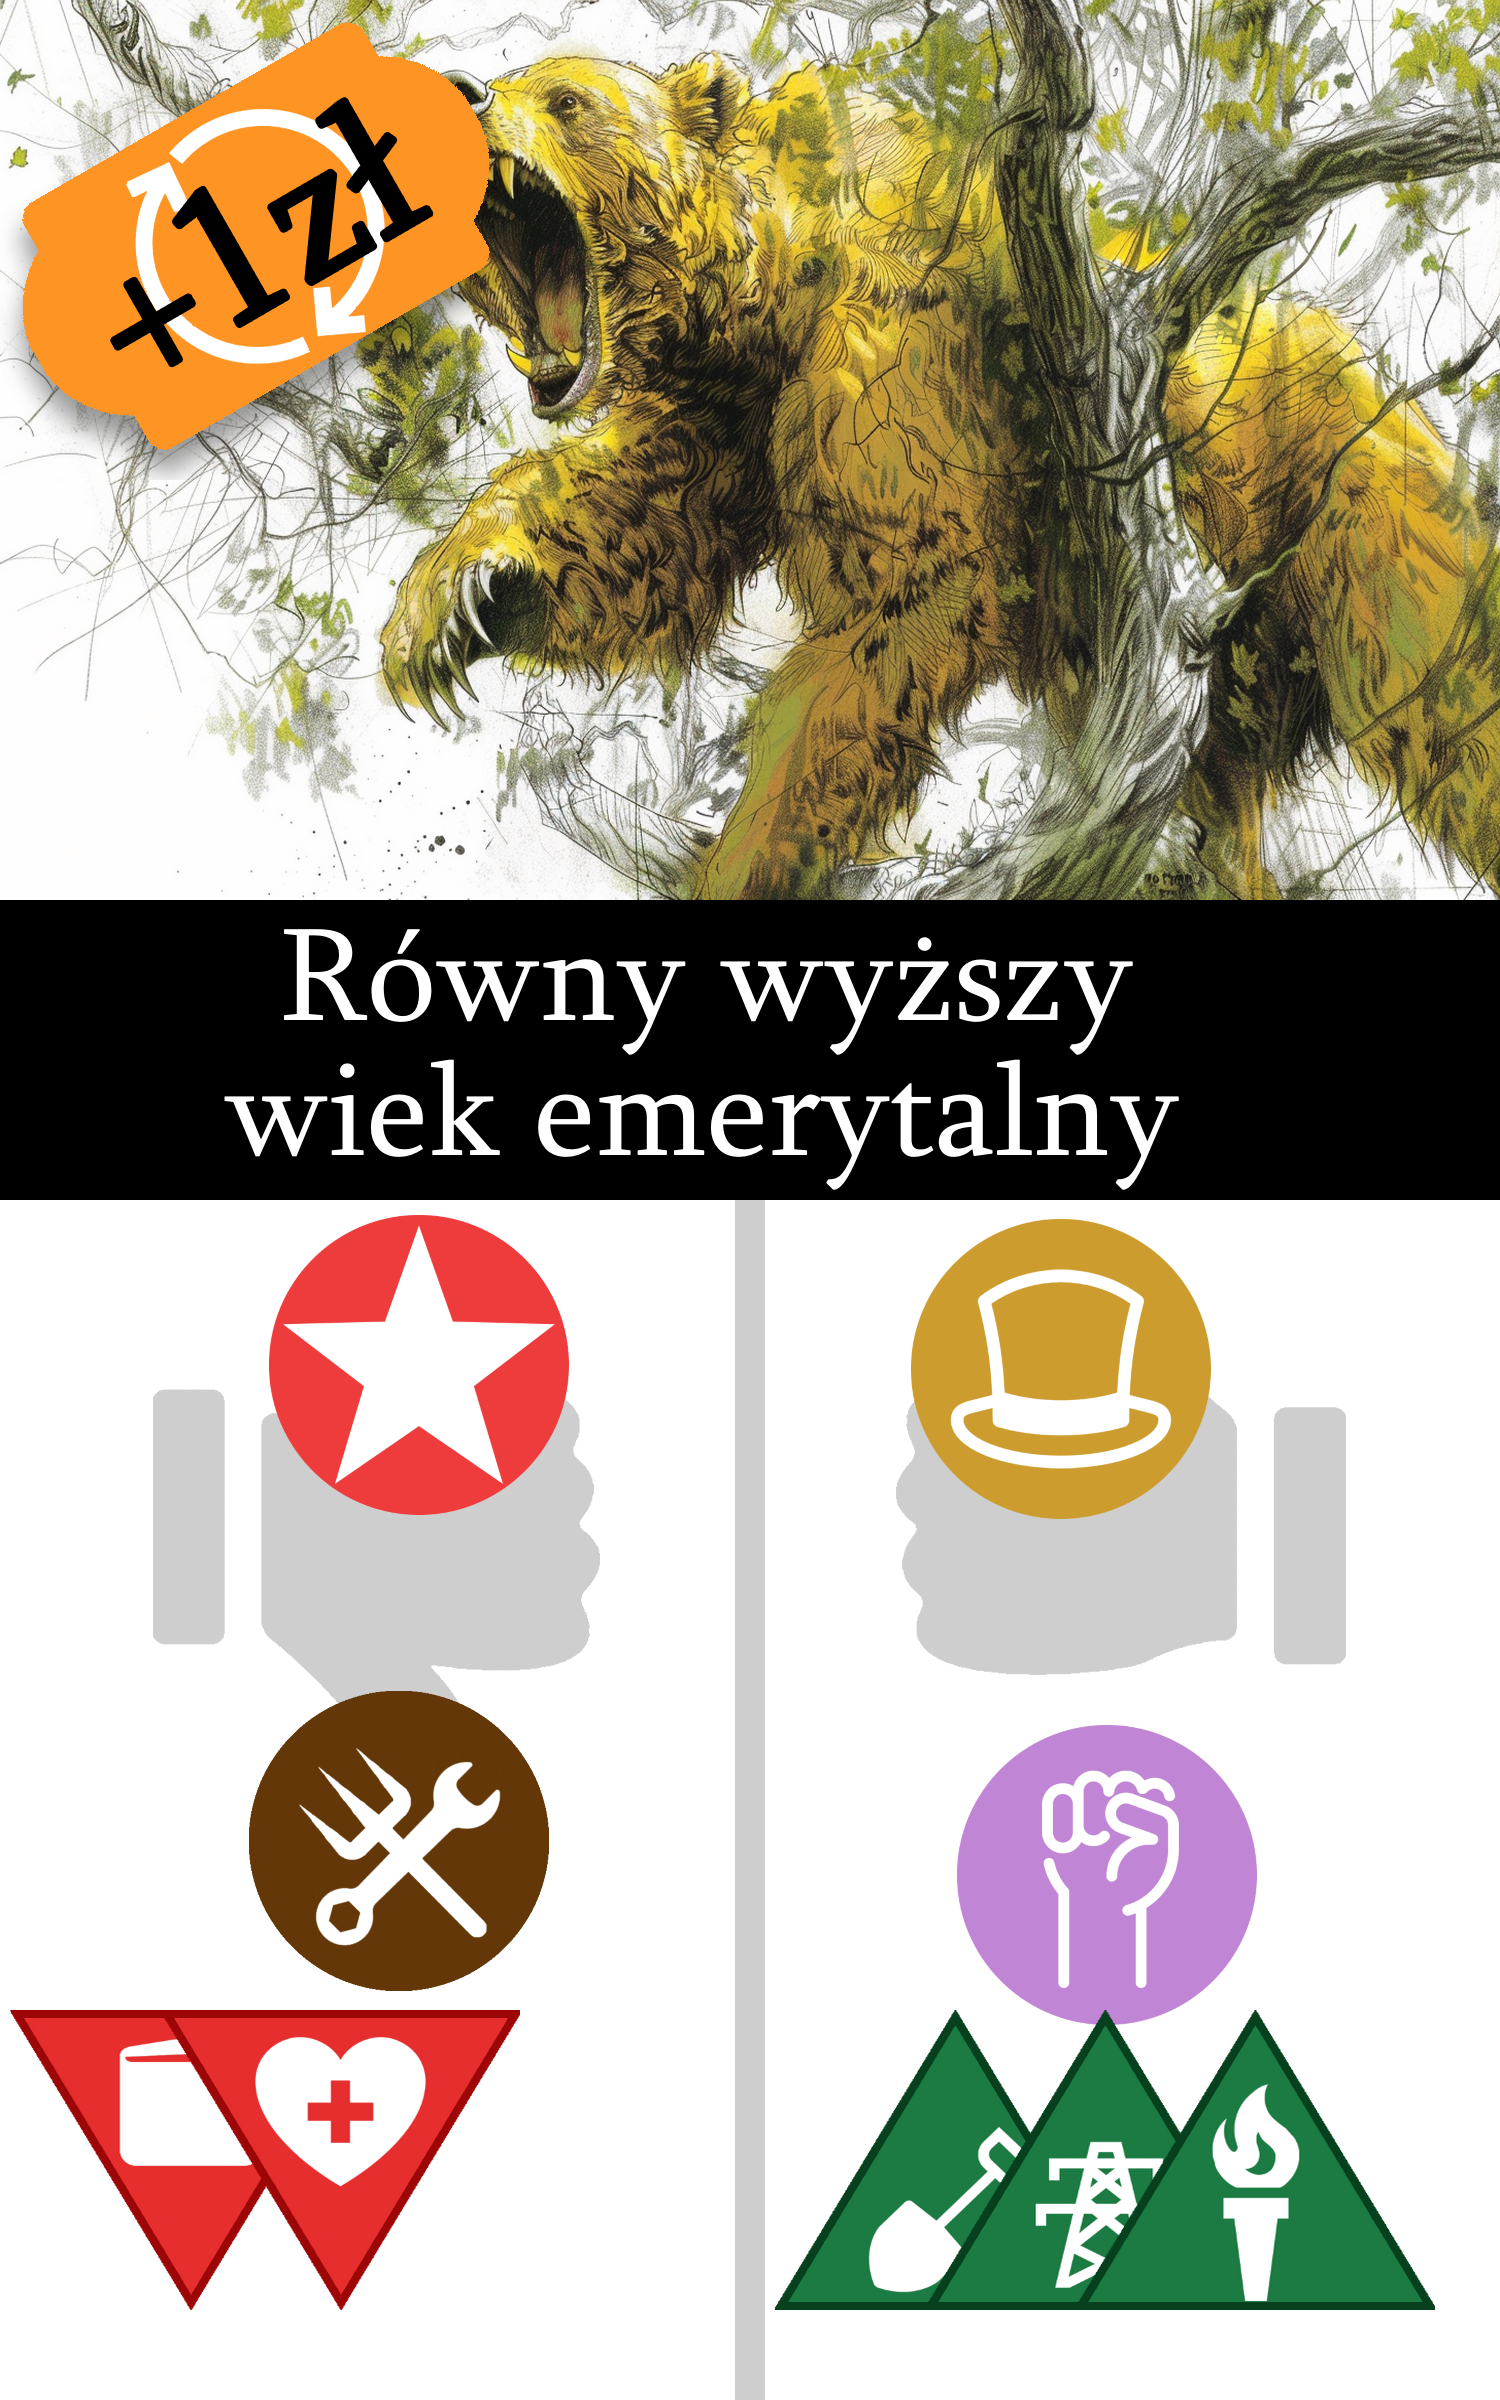
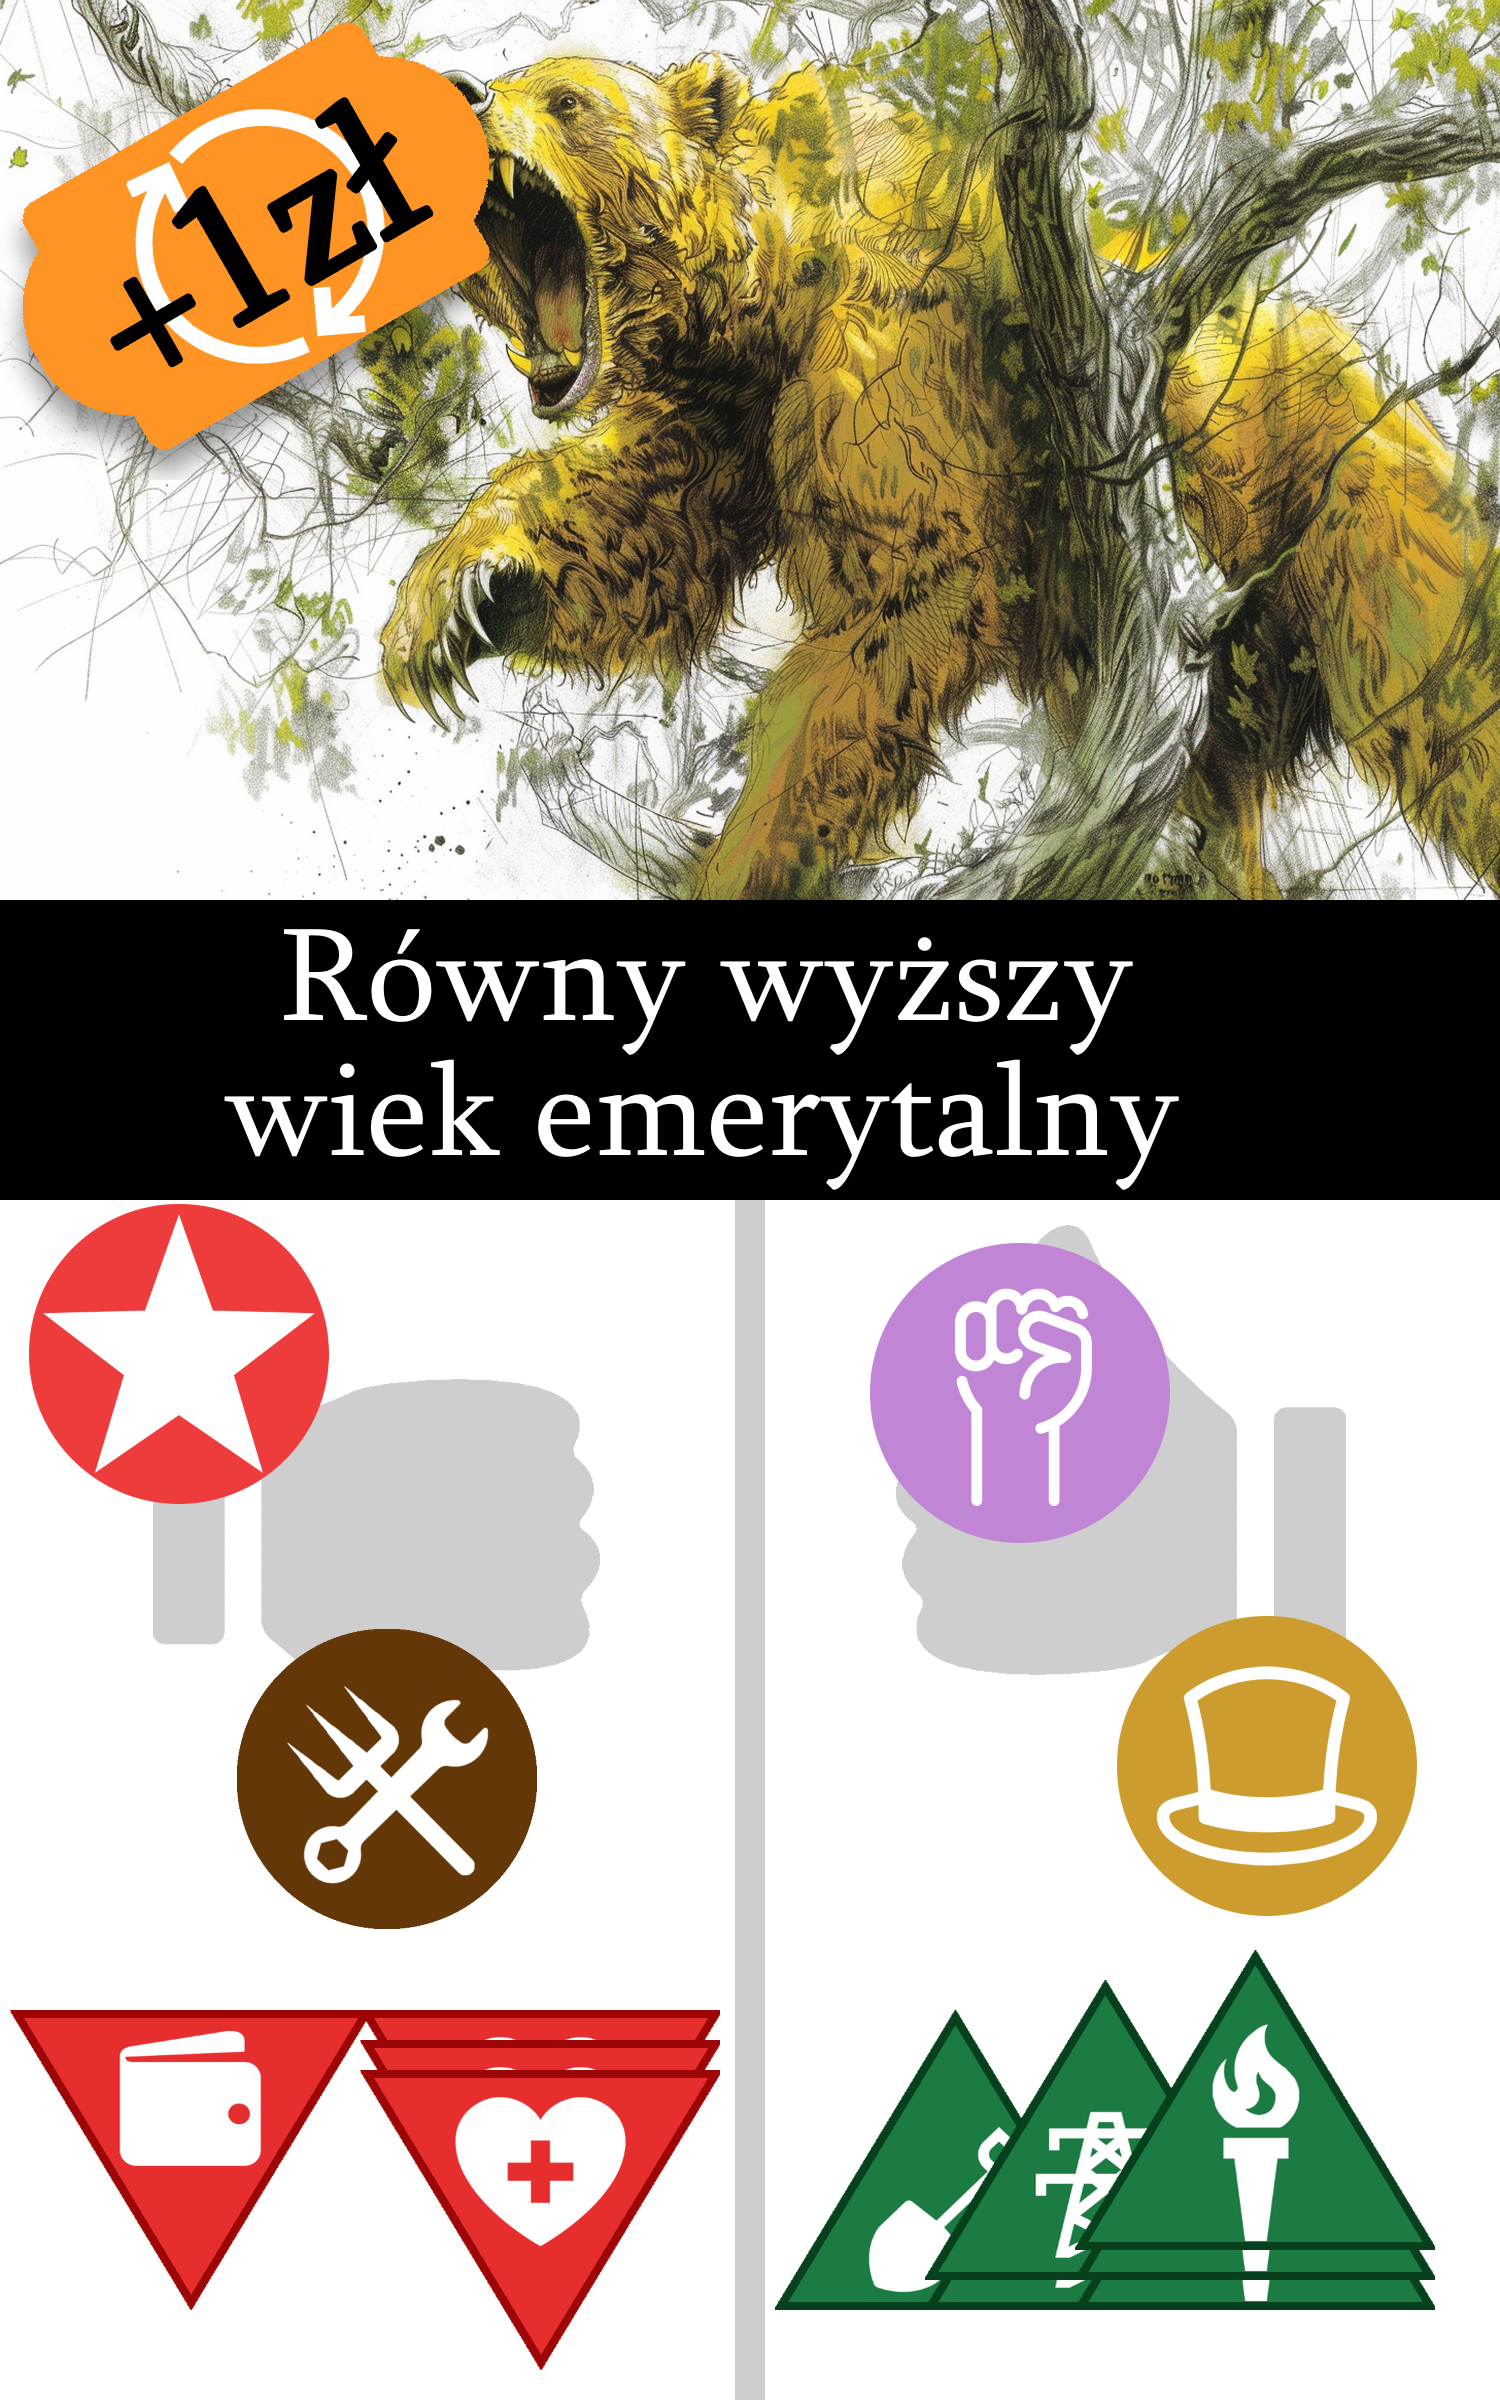
Done everything is great now

Changed region(s): [[0.0, 0.5, 0.4907, 1.0], [0.6133, 0.6562, 0.9507, 0.9688], [0.5827, 0.5, 0.828, 0.6562]]

diff --git a/main.go b/main.go
@@ -73,21 +73,30 @@ var (
 		"assets/wsk/InflacjaPlus.png",
 	}
 )
+var (
+	minimumStampDistance = 420
+)
 
 func main() {
+	if len(os.Args) == 2 {
+		if os.Args[1] == "-b" {
+			replaceSubstringInSlice(grupyImagePaths, "grupy", "boldgrupy")
+			replaceSubstringInSlice(wskaznikiImagePaths, "wsk", "boldwsk")
+		}
+	}
 	//Initialize a card
 	card := Card{
-		ArtPath:  "assets/misiu.png",
-		Title:    "Równy wyższy wiek emerytalny",
-		Opinions: [10]Opinion{0, 1, -1, 1, -1, 0, 0, 0, 0, 0},
-		Effects:  [7]int{-1, 1, 1, 1, 0, -1, 0},
+		ArtPath:  "assets/woda.png",
+		Title:    "Ujebanie się wódką",
+		Opinions: [10]Opinion{1, -1, 1, 1, 1, 1, -1, -1, 0, 0},
+		Effects:  [7]int{0, 0, 1, 3, -1, -3, 1},
 		Cost: Cost{
-			Value:       1,
+			Value:       2,
 			AddToBudget: true,
 		},
 	}
 
-	err := drawCard(card, "rawr")
+	err := drawCard(card, "wodka")
 	if err != nil {
 		log.Fatal(err)
 	}
@@ -110,7 +119,7 @@ func drawCard(card Card, filename string) error {
 	backgroundImage = addStamps(backgroundImage, card.Opinions[:])
 
 	backgroundImage = addEffects(backgroundImage, card.Effects[:])
-	if card.Cost.Value > 0 {
+	if card.Cost.Value != 0 {
 		backgroundImage = addCost(backgroundImage, card.Cost)
 	}
 
@@ -251,7 +260,7 @@ func drawStampAgainst(backgroundImage image.Image, stamp_id int, placedPositions
 func isOverlap(position image.Point, placedPositions []image.Point) bool {
 	for _, p := range placedPositions {
 		dist := math.Sqrt(math.Pow(float64(position.X)-float64(p.X), 2) + math.Pow(float64(position.Y)-float64(p.Y), 2))
-		if dist <= 420 {
+		if dist <= float64(minimumStampDistance) {
 			return true
 		}
 	}
@@ -263,13 +272,25 @@ func addEffects(backgroundImage image.Image, effects []int) *image.RGBA {
 	draw.Draw(resultImage, backgroundImage.Bounds(), backgroundImage, image.Point{}, draw.Src)
 	goodOffset := 0
 	badOffset := 0
+
+	goodCount := 0
+	badCount := 0
+
+	for _, val := range effects {
+		if val > 0 {
+			goodCount++
+		} else if val < 0 {
+			badCount++
+		}
+	}
+
 	for idx, val := range effects {
 		if val != 0 {
 			if val > 0 {
-				resultImage = drawGoodEffect(resultImage, val, idx*2+1, goodOffset)
+				resultImage = drawGoodEffect(resultImage, val, idx*2+1, goodOffset, goodCount)
 				goodOffset++
 			} else { // val < 0
-				resultImage = drawBadEffect(resultImage, val, idx*2, badOffset)
+				resultImage = drawBadEffect(resultImage, val, idx*2, badOffset, badCount)
 				badOffset++
 			}
 		}
@@ -277,7 +298,7 @@ func addEffects(backgroundImage image.Image, effects []int) *image.RGBA {
 	return resultImage
 }
 
-func drawGoodEffect(backgroundImage image.Image, val int, effect_id, offset int) *image.RGBA {
+func drawGoodEffect(backgroundImage image.Image, val int, effect_id, offset, goodCount int) *image.RGBA {
 	resultImage := image.NewRGBA(backgroundImage.Bounds())
 	draw.Draw(resultImage, backgroundImage.Bounds(), backgroundImage, image.Point{}, draw.Src)
 	effectFile, err := os.Open(wskaznikiImagePaths[effect_id])
@@ -290,28 +311,28 @@ func drawGoodEffect(backgroundImage image.Image, val int, effect_id, offset int)
 	}
 	effectImage = resize.Resize(360, 300, effectImage, resize.Lanczos3)
 	x := 775 + offset*150
-	var y int
+	if goodCount == 2 {
+		x = 775 + offset*350
+	}
+	y := 2010
 	var effectPosition image.Point
 	switch val {
 	case 1:
-		y = 2010
 		effectPosition = image.Point{X: x, Y: y}
 		draw.Draw(resultImage, effectImage.Bounds().Add(effectPosition), effectImage, image.Point{}, draw.Over)
 	case 2:
-		y = 2010
 		effectPosition = image.Point{X: x, Y: y}
 		draw.Draw(resultImage, effectImage.Bounds().Add(effectPosition), effectImage, image.Point{}, draw.Over)
-		y = 1960
+		y -= 30
 		effectPosition = image.Point{X: x, Y: y}
 		draw.Draw(resultImage, effectImage.Bounds().Add(effectPosition), effectImage, image.Point{}, draw.Over)
 	case 3:
-		y = 2010
 		effectPosition = image.Point{X: x, Y: y}
 		draw.Draw(resultImage, effectImage.Bounds().Add(effectPosition), effectImage, image.Point{}, draw.Over)
-		y = 1960
+		y -= 30
 		effectPosition = image.Point{X: x, Y: y}
 		draw.Draw(resultImage, effectImage.Bounds().Add(effectPosition), effectImage, image.Point{}, draw.Over)
-		y = 1910
+		y -= 30
 		effectPosition = image.Point{X: x, Y: y}
 		draw.Draw(resultImage, effectImage.Bounds().Add(effectPosition), effectImage, image.Point{}, draw.Over)
 	}
@@ -319,7 +340,7 @@ func drawGoodEffect(backgroundImage image.Image, val int, effect_id, offset int)
 	return resultImage
 }
 
-func drawBadEffect(backgroundImage image.Image, val int, effect_id, offset int) *image.RGBA {
+func drawBadEffect(backgroundImage image.Image, val int, effect_id, offset, badCount int) *image.RGBA {
 	resultImage := image.NewRGBA(backgroundImage.Bounds())
 	draw.Draw(resultImage, backgroundImage.Bounds(), backgroundImage, image.Point{}, draw.Src)
 	effectFile, err := os.Open(wskaznikiImagePaths[effect_id])
@@ -332,28 +353,29 @@ func drawBadEffect(backgroundImage image.Image, val int, effect_id, offset int) 
 	}
 	effectImage = resize.Resize(360, 300, effectImage, resize.Lanczos3)
 	x := 10 + offset*150
-	var y int
+	if badCount == 2 {
+		x = 10 + offset*350
+	}
+	y := 2010
 	var effectPosition image.Point
 	switch val {
 	case -1:
-		y = 2010
 		effectPosition = image.Point{X: x, Y: y}
 		draw.Draw(resultImage, effectImage.Bounds().Add(effectPosition), effectImage, image.Point{}, draw.Over)
 	case -2:
-		y = 2060
+		y += 30
 		effectPosition = image.Point{X: x, Y: y}
 		draw.Draw(resultImage, effectImage.Bounds().Add(effectPosition), effectImage, image.Point{}, draw.Over)
-		y = 2010
+		y += 30
 		effectPosition = image.Point{X: x, Y: y}
 		draw.Draw(resultImage, effectImage.Bounds().Add(effectPosition), effectImage, image.Point{}, draw.Over)
 	case -3:
-		y = 2010
 		effectPosition = image.Point{X: x, Y: y}
 		draw.Draw(resultImage, effectImage.Bounds().Add(effectPosition), effectImage, image.Point{}, draw.Over)
-		y = 2060
+		y += 30
 		effectPosition = image.Point{X: x, Y: y}
 		draw.Draw(resultImage, effectImage.Bounds().Add(effectPosition), effectImage, image.Point{}, draw.Over)
-		y = 2110
+		y += 30
 		effectPosition = image.Point{X: x, Y: y}
 		draw.Draw(resultImage, effectImage.Bounds().Add(effectPosition), effectImage, image.Point{}, draw.Over)
 	}
@@ -382,6 +404,10 @@ func addCost(backgroundImage image.Image, cost Cost) *image.RGBA {
 func costToFilepath(cost Cost) string {
 	filepath := "assets/ceny/"
 	switch cost.Value {
+	case -5:
+		filepath += "minus5"
+	case -4:
+		filepath += "minus4"
 	case -3:
 		filepath += "minus3"
 	case -2:
@@ -394,6 +420,10 @@ func costToFilepath(cost Cost) string {
 		filepath += "plus2"
 	case 3:
 		filepath += "plus3"
+	case 4:
+		filepath += "plus4"
+	case 5:
+		filepath += "plus5"
 	default:
 		filepath += "minus1"
 	}
@@ -475,4 +505,11 @@ func textWidth(face font.Face, text string) int {
 		width += int(aw >> 6)
 	}
 	return width
+}
+
+func replaceSubstringInSlice(slice []string, oldSubstr, newSubstr string) []string {
+	for i, str := range slice {
+		slice[i] = strings.ReplaceAll(str, oldSubstr, newSubstr)
+	}
+	return slice
 }
